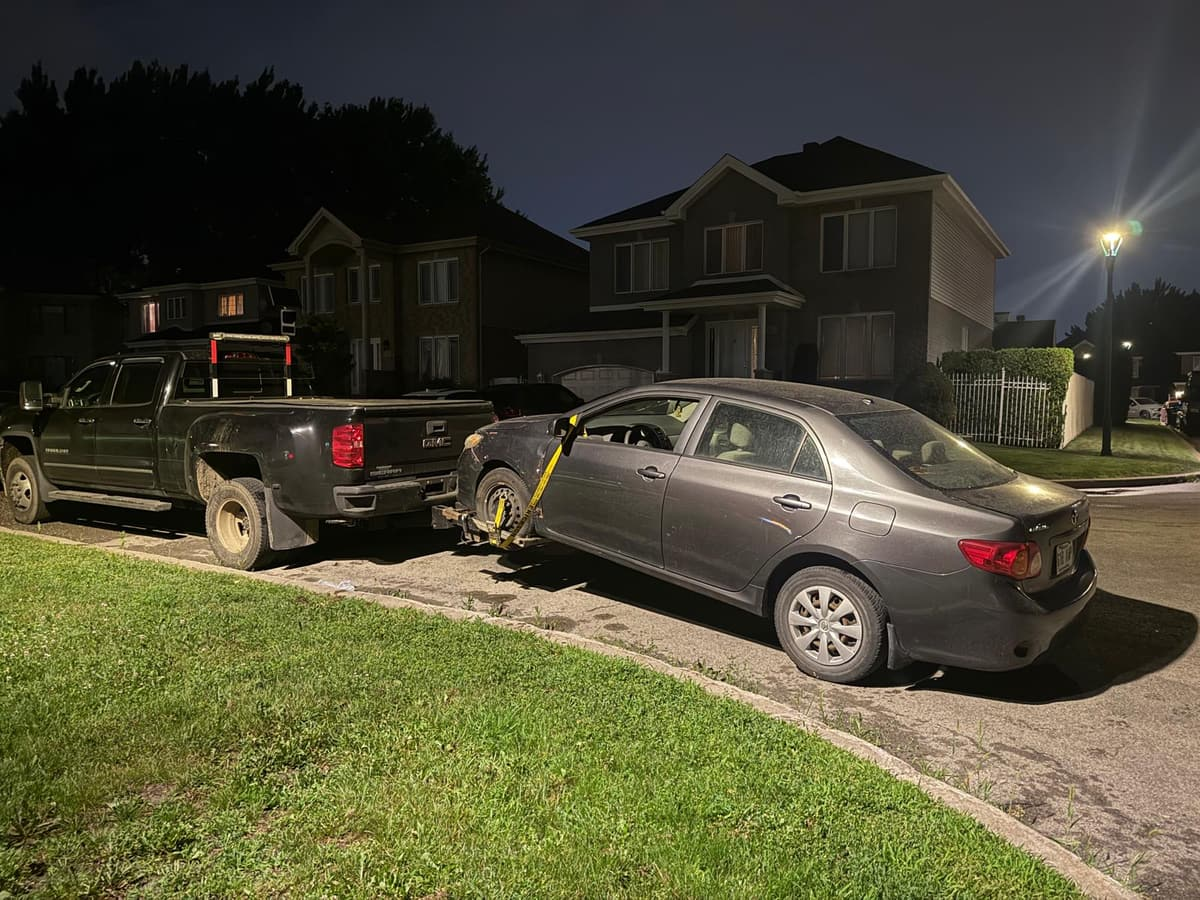
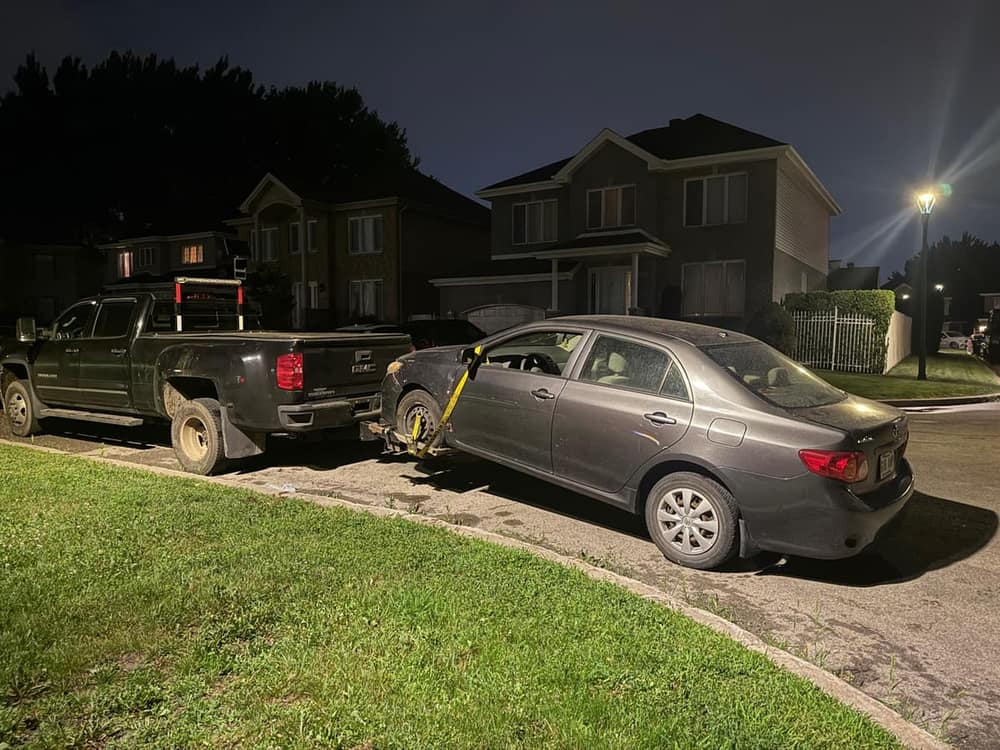
perf: Re-encode the fleet photos; attache-vehicule-plateau was a 2.2 MB PNG
The file had been overwritten locally with an uncompressed PNG carrying a
.jpg name — 2.2 MB at 1448x1086, against ~120 KB for its five siblings. Same
photograph, just saved wrong. The committed copy was fine, so the live site
was never serving it; only the working tree was affected.

All six re-encoded at 1000px with mozjpeg q72. The largest slot they ever
render in is about 430 CSS px — two columns inside a max-w-4xl container —
so 1000 covers a 2x display with room left; the previous 1200 was never
reachable. Folder: 3.0 MB -> 560 KB.

Delivery was already fine and stays fine: next/image re-encodes on demand, so
a phone pulls 5 KB and a wide desktop 19 KB.

Two things found while measuring:

- Lighthouse's responsive-images audit was failing, and not because of the
  photos: the LOGO was being served at 640px into a ~112px slot, 30 KB wasted
  on every page since it sits in the header. It had no `sizes`, so Next had
  to assume it might be full width. Added, and the audit now passes.
- The header and landing-page logo declared width={289} height={109} while
  the file is 600x214 — a 5% wrong aspect ratio for the reserved box.
  Corrected to the real dimensions.

98 / 100 / 100 / 100, CLS 0, 101 tests green.

Claude-Session: https://claude.ai/code/session_019U5L4kgseZwGtDT7KfpW2W

diff --git a/components/site/SiteHeader.tsx b/components/site/SiteHeader.tsx
@@ -65,8 +65,12 @@ export default function SiteHeader({ lang, labels }: { lang: Lang; labels: Heade
           <Image
             src="/logo-autob2.png"
             alt={siteConfig.name}
-            width={289}
-            height={109}
+            width={600}
+            height={214}
+            // Renders at 40px tall (44 from sm), so ~112–124 CSS px wide.
+            // Without this Next assumes it could be full width and ships a
+            // 640px file into a 112px slot, on every page.
+            sizes="124px"
             loading="eager"
             className="h-10 w-auto sm:h-11"
           />

diff --git a/app/(public)/[lang]/lp/[slug]/page.tsx b/app/(public)/[lang]/lp/[slug]/page.tsx
@@ -60,8 +60,9 @@ export default async function LandingPage({
           <Image
             src="/logo-autob2.png"
             alt={siteConfig.name}
-            width={289}
-            height={109}
+            width={600}
+            height={214}
+            sizes="101px"
             loading="eager"
             className="h-8 w-auto sm:h-9"
           />

diff --git a/components/site/SiteFooter.tsx b/components/site/SiteFooter.tsx
@@ -37,6 +37,7 @@ export default function SiteFooter({ lang }: { lang: Lang }) {
               alt={siteConfig.name}
               width={600}
               height={214}
+              sizes="135px"
               className="h-12 w-auto"
             />
 
